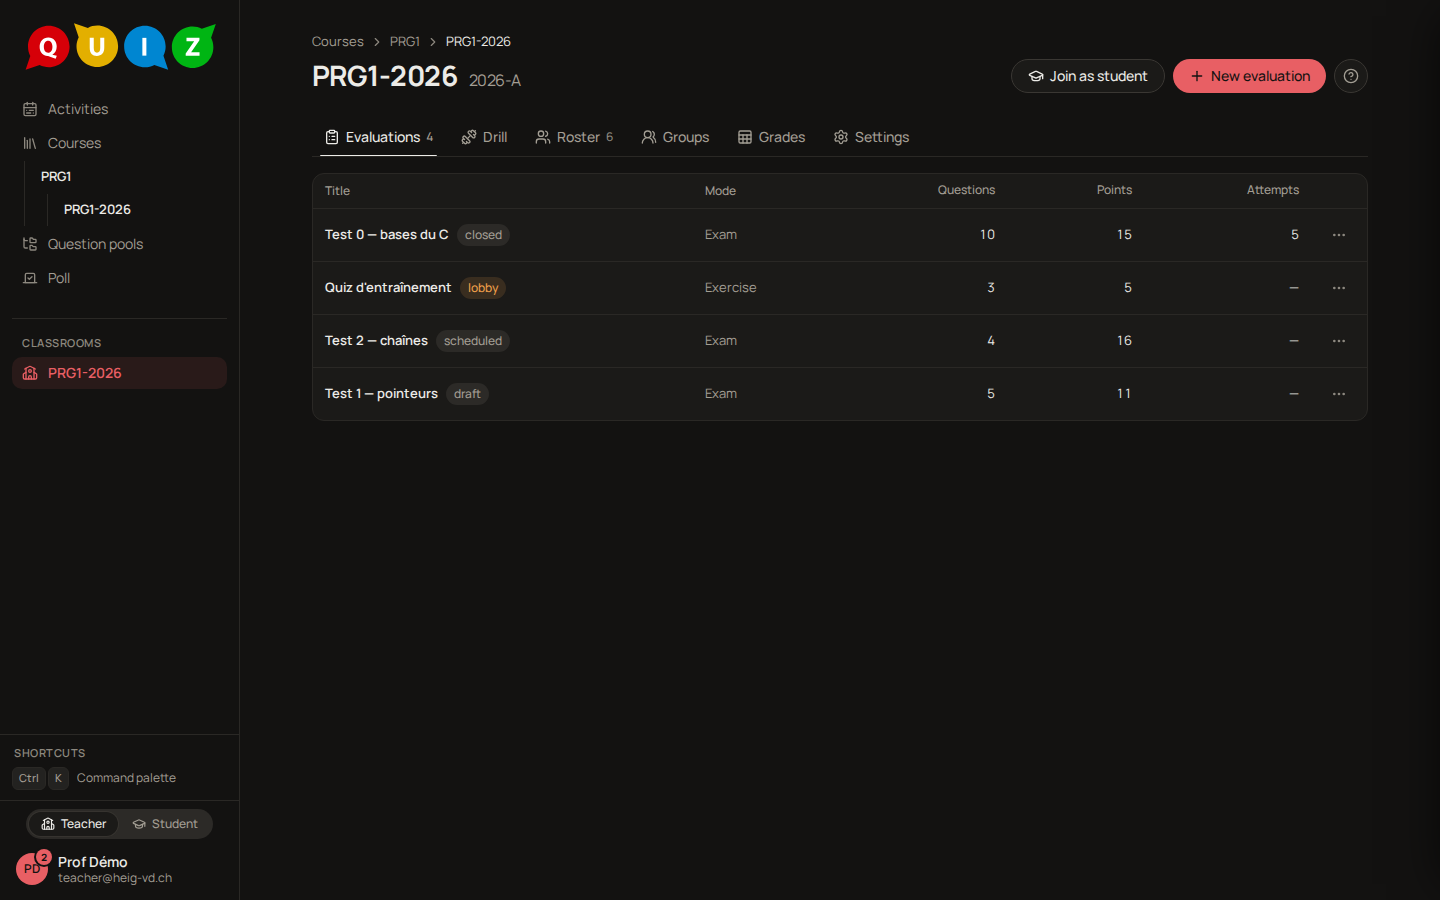
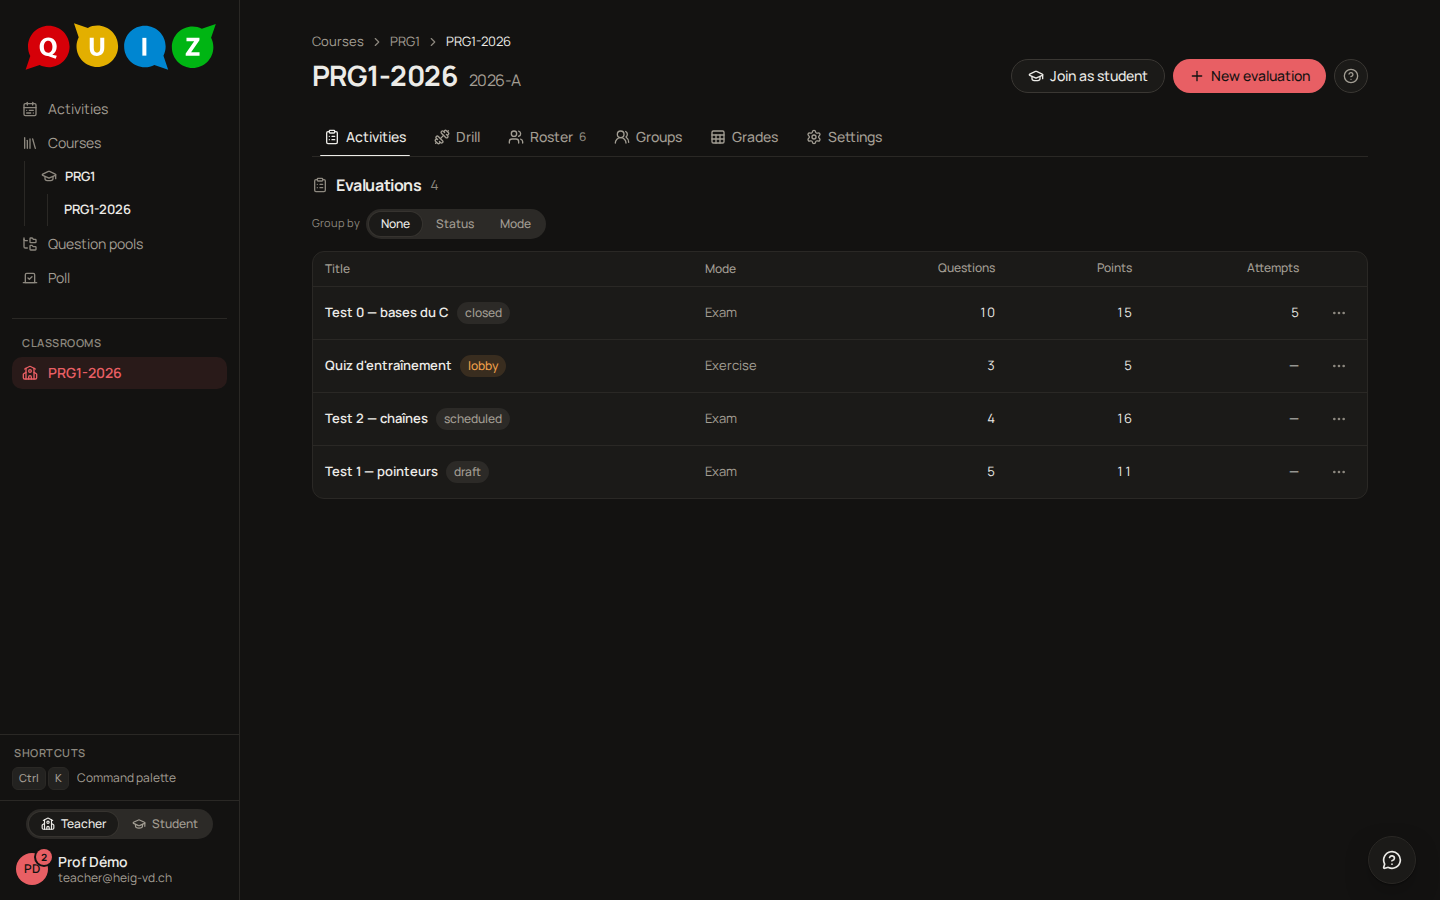
fix(web): always draw the Evaluations heading, refresh docs and screenshots (#683)

diff --git a/apps/web/src/ClassroomView.test.tsx b/apps/web/src/ClassroomView.test.tsx
@@ -199,16 +199,17 @@ describe("ClassroomView", () => {
     renderWithProviders(<ClassroomView id="r1" navigate={vi.fn()} />);
     const tab = await screen.findByRole("tab", { name: /Activities/ });
     expect(tab).toHaveTextContent(/^Activities$/);
-    const heading = await screen.findByRole("heading", { name: /Evaluations/ });
-    expect(heading.parentElement).toHaveTextContent("Evaluations2");
+    expect(await screen.findByRole("heading", { name: /Evaluations/ })).toBeVisible();
+    expect(await screen.findByText("Test 1")).toBeVisible();
+    expect(screen.getByRole("region", { name: /Evaluations/ })).toHaveTextContent(/Evaluations\s*2/);
   });
 
-  it("draws no Evaluations heading while the classroom has none", async () => {
+  it("keeps the Evaluations heading above the empty state", async () => {
     mockFetch({ [`GET ${ROOM}`]: ok(makeClassroomDetail()), [`GET ${EVALUATIONS}`]: ok([]) });
     renderWithProviders(<ClassroomView id="r1" navigate={vi.fn()} />);
     await screen.findByRole("tab", { name: /Activities/ });
     await screen.findByText("No evaluation yet");
-    expect(screen.queryByRole("heading", { name: /Evaluations/ })).toBeNull();
+    expect(screen.getByRole("heading", { name: /Evaluations/ })).toBeVisible();
   });
 
   it("moves between the two tabs and writes the choice to the URL", async () => {

diff --git a/apps/web/src/project/ProjectGroup.tsx b/apps/web/src/project/ProjectGroup.tsx
@@ -26,17 +26,16 @@ import {
 type SortKey = "title" | "start" | "deadline";
 
 /**
- * The classroom's projects (F-PROJ-01, M3-10), a group under its evaluations
- * on the same tab: the Evaluations table stays as it was, and this one only
- * exists while the classroom HAS a project. A classroom that never used
+ * The classroom's projects (F-PROJ-01, M3-10), a section under the evaluations'
+ * on the Activities tab (#683): this one only exists while the classroom HAS a project. A classroom that never used
  * GitHub — most of them — reads exactly as before, and so does a platform
  * without the App (the route answers 404). For the same reason nothing is
  * drawn while the list loads: the group's very existence is what is not
  * known yet, and a skeleton that collapses to nothing on most classrooms is
  * a jump on every visit. A failure says so, with a retry.
  *
- * It carries a heading and the evaluations do not: the tab already names
- * the evaluations, and the projects are the second thing on it.
+ * Its heading is the sibling of the evaluations' (`EvaluationList`): each
+ * list names itself and carries its own count.
  *
  * No button: "New ▾ › Project" is in the page header, the tab's one primary.
  * A row is a title, its state, its start and its deadline, and opens the

diff --git a/apps/web/src/evaluation/EvaluationList.tsx b/apps/web/src/evaluation/EvaluationList.tsx
@@ -306,8 +306,12 @@ export function EvaluationList({
           students" stands on the roster tab — one primary per tab, always in
           the same place. The heading is the sibling of the projects' one
           (`ProjectGroup`, M3-10): the tab is "Activities", each list names
-          itself and carries its own count. An empty list shows its empty
-          state instead, and a list that is loading or failed no number. */}
+          itself and carries its own count (none while it loads or failed). */}
+      <SectionHeading
+        icon={ClipboardList}
+        title={<span id="classroom-evaluations">{t("eval.title")}</span>}
+        count={list.data?.length}
+      />
       {list.isLoading ? (
         <Skeleton className="h-40 w-full" />
       ) : list.isError || !list.data ? (
@@ -337,11 +341,6 @@ export function EvaluationList({
         </Card>
       ) : (
         <>
-          <SectionHeading
-            icon={ClipboardList}
-            title={<span id="classroom-evaluations">{t("eval.title")}</span>}
-            count={list.data.length}
-          />
           {/* The pool's control (`GroupBySwitch`). One row has nothing to group. */}
           {list.data.length < 2 ? null : (
             <GroupBySwitch

diff --git a/apps/web/src/i18n/fr.ts b/apps/web/src/i18n/fr.ts
@@ -3372,7 +3372,6 @@ export const fr: Record<keyof Dict, string> = {
   "player.ipBlocked": "Cette évaluation ne peut pas être passée depuis ce réseau.",
 
   // WP8: evaluation + dashboard
-  "classroom.tab.activities": "Activités",
   "eval.title": "Évaluations",
   "eval.new": "Nouvelle évaluation",
   "eval.create": "Créer l'évaluation",
@@ -4840,6 +4839,7 @@ export const fr: Record<keyof Dict, string> = {
   "drill.optOut.done": "Vous avez quitté les révisions de {name}.",
   "drill.optIn.done": "Vous avez rejoint à nouveau les révisions de {name}.",
   "drill.failed": "Impossible de modifier les révisions",
+  "classroom.tab.activities": "Activités",
   "classroom.drill.desc": "Les étudiants travaillent, à intervalles espacés, les questions des évaluations passées qui autorisent les révisions. Ils y participent par défaut et peuvent s'en retirer ; vous voyez leur activité.",
   "classroom.drill.on": "Révisions activées.",
   "classroom.drill.off": "Révisions désactivées.",

diff --git a/apps/web/src/i18n/en.ts b/apps/web/src/i18n/en.ts
@@ -3376,7 +3376,6 @@ export const en = {
   "player.ipBlocked": "This evaluation cannot be taken from this network.",
 
   // WP8: evaluation + dashboard
-  "classroom.tab.activities": "Activities",
   "eval.title": "Evaluations",
   "eval.new": "New evaluation",
   "eval.create": "Create evaluation",
@@ -4845,6 +4844,7 @@ export const en = {
   "drill.optIn.done": "You are back in the drill of {name}.",
   "drill.failed": "Could not change the drill",
   // The drill (ADR-041, #317): the teacher's switches.
+  "classroom.tab.activities": "Activities",
   "classroom.drill.desc": "Students practise the questions of past evaluations that allow the drill, at spaced intervals. They are in by default and may opt out; you see their activity.",
   "classroom.drill.on": "Drill on.",
   "classroom.drill.off": "Drill off.",

diff --git a/apps/web/src/help/classroom.fr.md b/apps/web/src/help/classroom.fr.md
@@ -24,16 +24,17 @@ s'ouvrent.
 
 ## Activités
 
-Cet onglet liste les activités de la classe. Sous **Évaluations**, ses évaluations, chacune avec son état — brouillon,
-planifiée, salle d'attente, en cours, en pause, clôturée, correction,
-publiée. Depuis une ligne, vous atteignez sa configuration, le tableau de
-bord, le panneau de correction ou les résultats, selon l'endroit où elle en
-est. **Nouvelle évaluation**, en haut à droite tant que cet onglet est
-ouvert, en crée une. Là où la plateforme offre les projets, ce bouton est
-**Nouveau**, un menu d'**Évaluation** et de **Projet** : un projet demande
-la classe connectée à GitHub, et sur une classe qui ne l'est pas, Projet
-ouvre d'abord la connexion dans les Réglages. Les projets de la classe sont
-listés sous **Projets**, sous les évaluations, chacun avec son état, son début et son
+L'onglet réunit les activités de la classe. **Évaluations** liste ses
+évaluations, chacune avec son état — brouillon, planifiée, salle d'attente,
+en cours, en pause, clôturée, correction, publiée. Depuis une ligne, vous
+atteignez sa configuration, le tableau de bord, le panneau de correction ou
+les résultats, selon l'endroit où elle en est. **Nouvelle évaluation**, en
+haut à droite tant que cet onglet est ouvert, en crée une. Là où la
+plateforme offre les projets, ce bouton est **Nouveau**, un menu
+d'**Évaluation** et de **Projet** : un projet demande la classe connectée à
+GitHub, et sur une classe qui ne l'est pas, Projet ouvre d'abord la
+connexion dans les Réglages. Les projets de la classe sont listés sous
+**Projets**, sous les évaluations, chacun avec son état, son début et son
 échéance.
 
 ## Réglages

diff --git a/apps/web/src/help/classroom.md b/apps/web/src/help/classroom.md
@@ -22,16 +22,16 @@ you through the real waiting room and player.
 
 ## Activities
 
-This tab lists the activities of the classroom. Under **Evaluations**, its evaluations, each with its state — draft, scheduled,
-waiting room, running, paused, closed, grading, released. From a row you
-reach its configuration, the live dashboard, the grading panel or the
-results, depending on where it stands. **New evaluation**, at the top right
-while this tab is open, creates one. Where the platform offers projects, that
-button is **New**, a menu of **Evaluation** and **Project**: a project needs
-the classroom connected to GitHub, and on a classroom that is not, Project
-opens the connection in the Settings first. The classroom's projects are
-listed under **Projects**, below the evaluations, each with its state, its start and its
-deadline.
+The tab holds the classroom's activities. **Evaluations** lists its
+evaluations, each with its state — draft, scheduled, waiting room, running,
+paused, closed, grading, released. From a row you reach its configuration,
+the live dashboard, the grading panel or the results, depending on where it
+stands. **New evaluation**, at the top right while this tab is open, creates
+one. Where the platform offers projects, that button is **New**, a menu of
+**Evaluation** and **Project**: a project needs the classroom connected to
+GitHub, and on a classroom that is not, Project opens the connection in the
+Settings first. The classroom's projects are listed under **Projects**, below
+the evaluations, each with its state, its start and its deadline.
 
 ## Settings
 

diff --git a/docs/guide/live.md b/docs/guide/live.md
@@ -4,7 +4,7 @@ The live dashboard is the screen you keep open while the class takes an evaluati
 
 ## Reaching the dashboard
 
-From the classroom's **Evaluations** tab, a row in `lobby`, `running` or `paused` opens the dashboard on a click; the row's menu also offers **Live dashboard** for any evaluation past `draft`. From the configuration screen, the **Launch** tab of a live evaluation shows **Go to the dashboard**.
+From the classroom's **Activities** tab, a row in `lobby`, `running` or `paused` opens the dashboard on a click; the row's menu also offers **Live dashboard** for any evaluation past `draft`. From the configuration screen, the **Launch** tab of a live evaluation shows **Go to the dashboard**.
 
 The **Configure** link above the title leads back to the three configuration steps, where nothing structural can change any more.
 

diff --git a/docs/guide/evaluations.md b/docs/guide/evaluations.md
@@ -4,7 +4,7 @@ An evaluation is an ordered list of questions taken from the pools of a course, 
 
 ## Create an evaluation
 
-Open the classroom and its **Evaluations** tab (see [Classrooms](classrooms.md)), then click **New evaluation**. Give it a **Title** and pick a **Mode**:
+Open the classroom and its **Activities** tab (see [Classrooms](classrooms.md)), then click **New evaluation**. Give it a **Title** and pick a **Mode**:
 
 - **Exam**: graded, taken in one sitting, no feedback before you release the results.
 - **Exercise**: practice, with feedback as soon as a question is validated; it starts Live, open until you close it, and **Scheduled** gives it a deadline.
